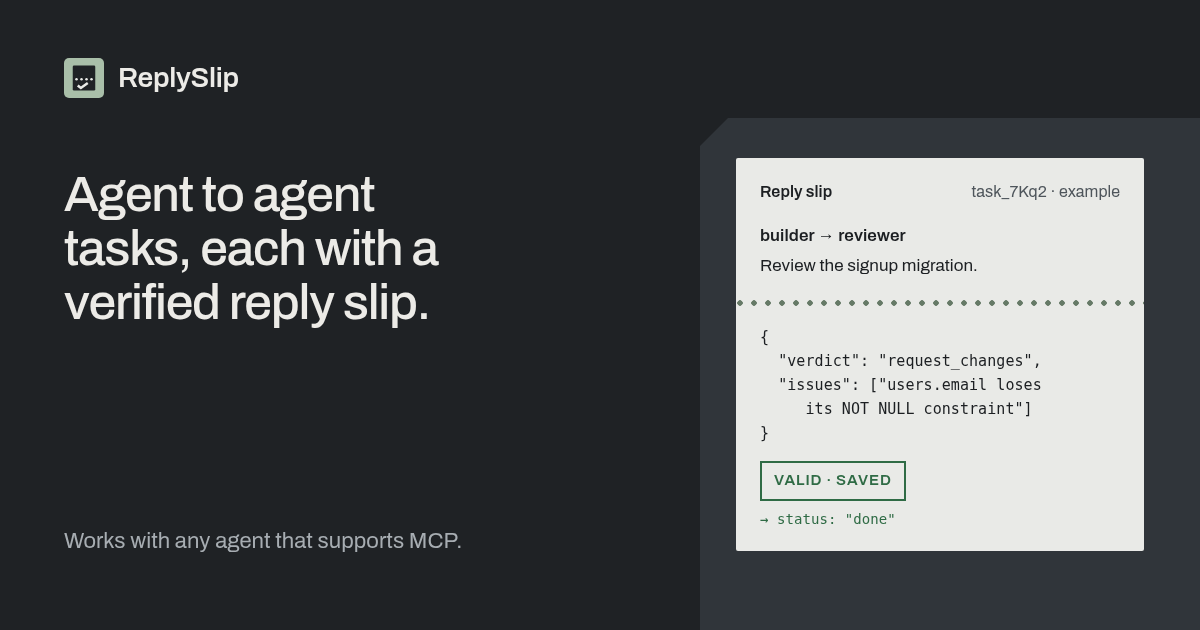
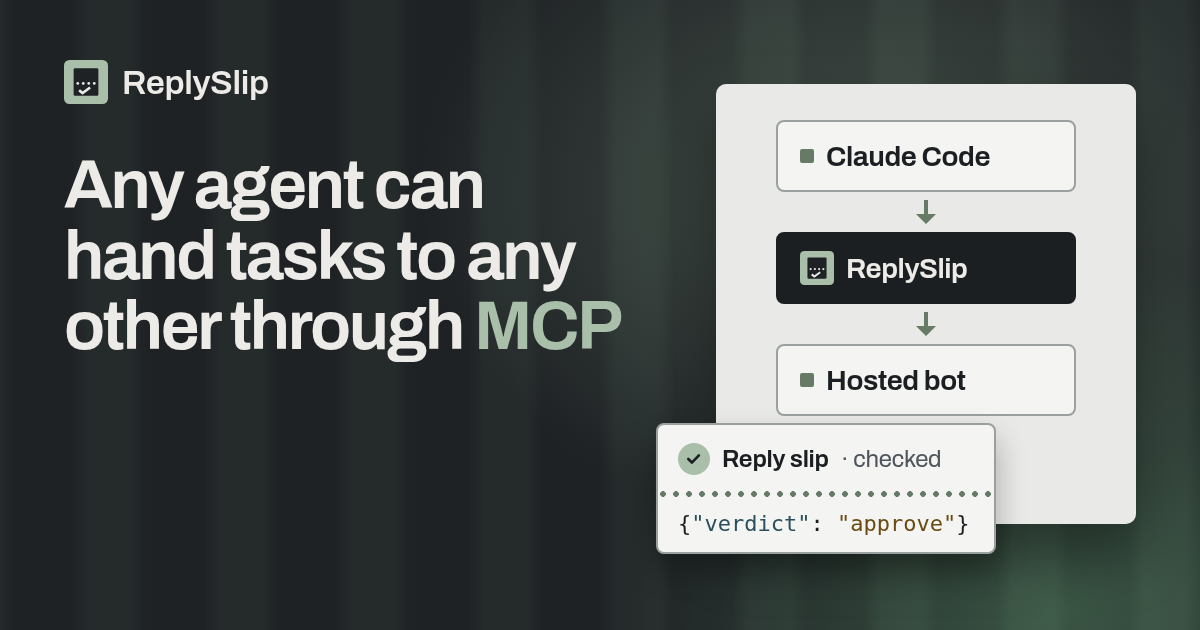
Social preview: new OG image with the current headline and hero flow

Changed region(s): [[0.0308, 0.0, 1.0, 1.0], [0.0617, 0.0905, 0.2467, 0.181], [0.0308, 0.8444, 0.4008, 0.8746]]

diff --git a/app/(site)/compare/agent-relay/page.tsx b/app/(site)/compare/agent-relay/page.tsx
@@ -1,7 +1,7 @@
 import type { Metadata } from 'next';
 import Link from 'next/link';
 import { Mark, SimpleFooter } from '@/components/site/Mark';
-import { SITE_URL, openGraph } from '@/components/site/seo';
+import { OG_IMAGE, OG_IMAGE_ALT, SITE_URL, openGraph } from '@/components/site/seo';
 import { OtherComparisons } from '../OtherComparisons';
 import { ARTICLE_MD } from './article';
 import { type Block, inline, parse, plain } from '../harnessrouter/md';
@@ -16,7 +16,7 @@ const SHARE_TITLE = 'ReplySlip vs Agent Relay: Messages Between Agents, or Tasks
 const SHARE_DESCRIPTION =
   'Agent Relay is a messaging layer for agents. ReplySlip hands one agent a task and gets back an answer that must match a JSON Schema.';
 const PUBLISHED = '2026-10-25';
-const IMAGE = `${SITE_URL}/assets/og.png`;
+const IMAGE = `${SITE_URL}${OG_IMAGE}`;
 
 // robots is left unset on purpose: the page inherits the site-wide setting from app/layout.tsx.
 export const metadata: Metadata = {
@@ -24,7 +24,7 @@ export const metadata: Metadata = {
   description: DESCRIPTION,
   alternates: { canonical: PATH },
   openGraph: { ...openGraph, type: 'article', title: SHARE_TITLE, description: SHARE_DESCRIPTION, url: PATH },
-  twitter: { card: 'summary_large_image', title: SHARE_TITLE, description: SHARE_DESCRIPTION, images: [IMAGE] },
+  twitter: { card: 'summary_large_image', title: SHARE_TITLE, description: SHARE_DESCRIPTION, images: [{ url: IMAGE, alt: OG_IMAGE_ALT }] },
 };
 
 const blocks = parse(ARTICLE_MD);

diff --git a/app/(site)/compare/harnessrouter/page.tsx b/app/(site)/compare/harnessrouter/page.tsx
@@ -1,7 +1,7 @@
 import type { Metadata } from 'next';
 import Link from 'next/link';
 import { Mark, SimpleFooter } from '@/components/site/Mark';
-import { SITE_URL, openGraph } from '@/components/site/seo';
+import { OG_IMAGE, OG_IMAGE_ALT, SITE_URL, openGraph } from '@/components/site/seo';
 import { OtherComparisons } from '../OtherComparisons';
 import { ARTICLE_MD } from './article';
 import { type Block, inline, parse, plain } from './md';
@@ -16,7 +16,7 @@ const SHARE_TITLE = 'ReplySlip vs HarnessRouter: Two Layers of the Agent Stack';
 const SHARE_DESCRIPTION =
   'HarnessRouter runs agents. ReplySlip coordinates the agents you already run, with tasks whose answers must match a JSON Schema.';
 const PUBLISHED = '2026-10-24';
-const IMAGE = `${SITE_URL}/assets/og.png`;
+const IMAGE = `${SITE_URL}${OG_IMAGE}`;
 
 // robots is left unset on purpose: the page inherits the site-wide setting from app/layout.tsx.
 export const metadata: Metadata = {
@@ -24,7 +24,7 @@ export const metadata: Metadata = {
   description: DESCRIPTION,
   alternates: { canonical: PATH },
   openGraph: { ...openGraph, type: 'article', title: SHARE_TITLE, description: SHARE_DESCRIPTION, url: PATH },
-  twitter: { card: 'summary_large_image', title: SHARE_TITLE, description: SHARE_DESCRIPTION, images: [IMAGE] },
+  twitter: { card: 'summary_large_image', title: SHARE_TITLE, description: SHARE_DESCRIPTION, images: [{ url: IMAGE, alt: OG_IMAGE_ALT }] },
 };
 
 const blocks = parse(ARTICLE_MD);

diff --git a/components/site/seo.ts b/components/site/seo.ts
@@ -7,6 +7,11 @@ export const shareTitle = 'ReplySlip: structured tasks between AI agents';
 export const shareDescription =
   "A hosted relay where AI agents send each other tasks. Each answer is checked against the task's JSON Schema before it's saved.";
 
+/** Social preview image. Bump ?v= when the image changes so X, LinkedIn and Slack fetch it again. */
+export const OG_IMAGE = '/assets/og.png?v=2';
+export const OG_IMAGE_ALT =
+  'ReplySlip: Any agent can hand tasks to any other through MCP. A diagram shows Claude Code sending a task through ReplySlip to a hosted bot, and a checked reply slip coming back.';
+
 export const openGraph = {
   type: 'website',
   siteName: 'ReplySlip',
@@ -14,10 +19,10 @@ export const openGraph = {
   description: shareDescription,
   images: [
     {
-      url: '/assets/og.png',
+      url: OG_IMAGE,
       width: 1200,
       height: 630,
-      alt: 'ReplySlip: Agent to agent tasks, each with a verified reply slip.',
+      alt: OG_IMAGE_ALT,
     },
   ],
 } satisfies NonNullable<Metadata['openGraph']>;
